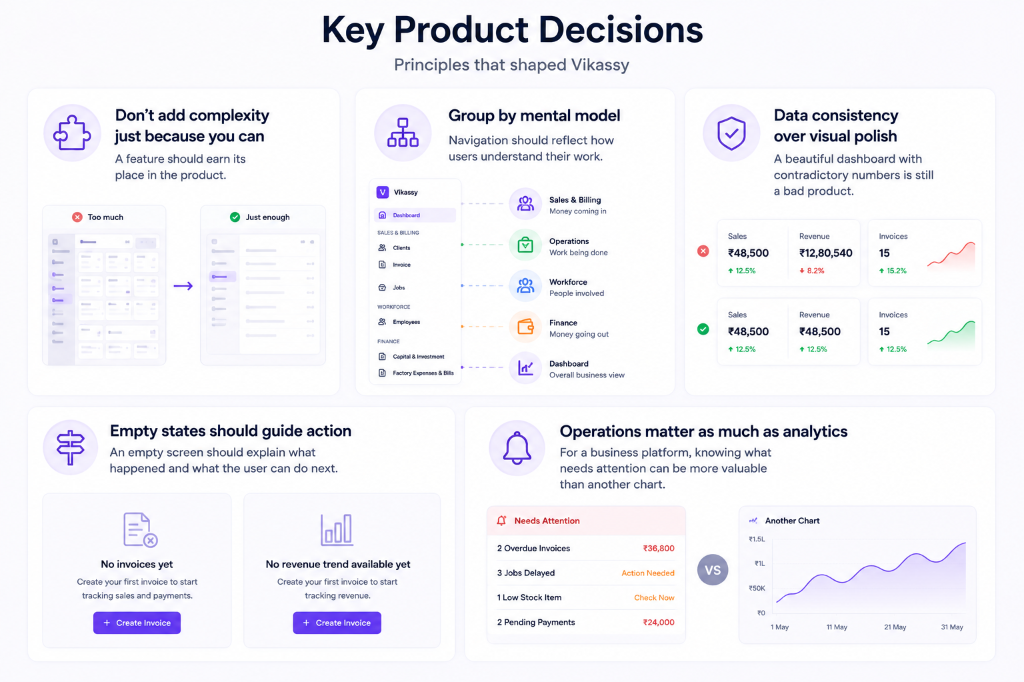
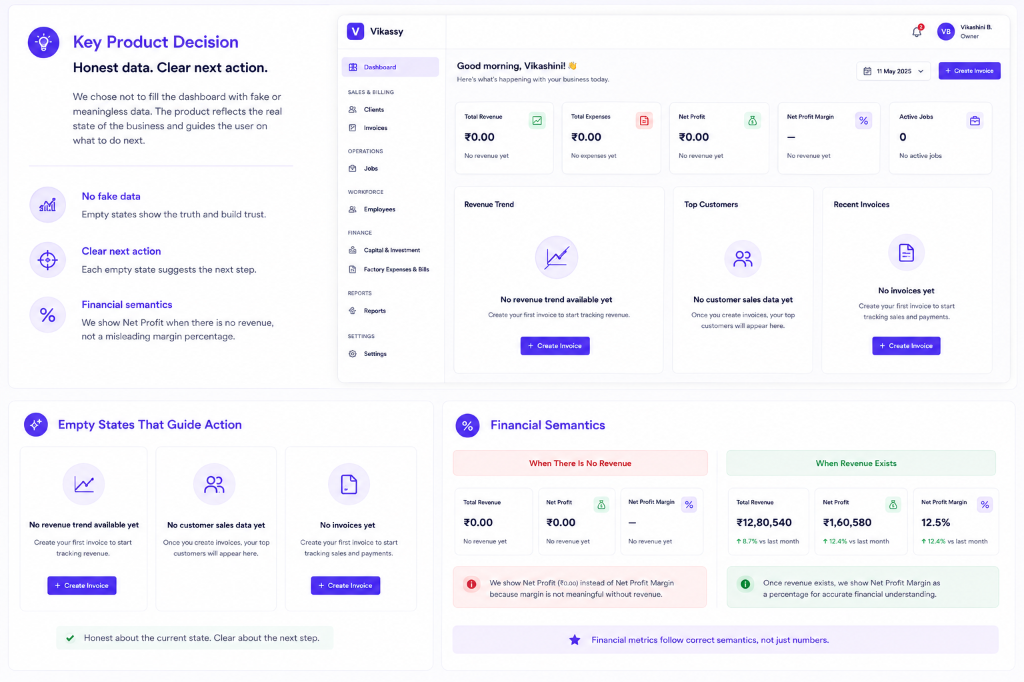
Update key decisions diagram and place it inline in Product Decisions section of Vikassy

diff --git a/src/data/projects.ts b/src/data/projects.ts
@@ -471,13 +471,8 @@ export const projects: ProjectData[] = [
         category: "Product Decisions",
         subtitle: "Designing for Real Data & Financial Semantics",
         content:
-          "One of the key product decisions was **not filling the dashboard with fake or meaningless data**.\n\nWhen there are no invoices:\n> **No revenue trend available yet**\n> Create your first invoice to start tracking revenue.\n\nWhen there are no customer sales:\n> **No customer sales data yet**\n\nWhen there are no invoices:\n> **No invoices yet**\n> Create your first invoice to start tracking sales and payments.\n\nThis makes the product honest about its current state while giving the user a clear next action.\n\n### Financial semantics\nA dashboard metric such as **Net Profit Margin** should represent a percentage, not a currency amount.\n\nSo when there is no revenue, the product shows the actual **Net Profit** rather than presenting a misleading margin percentage.\n\n> **Data consistency is a UX requirement, not just a technical requirement.**",
-        images: [
-          {
-            src: vikassyDecisionsImage,
-            alt: "Key Product Decisions - Don't add complexity just because you can vs Group by mental model vs Data consistency over visual polish vs Empty states should guide action",
-          },
-        ],
+          `One of the key product decisions was **not filling the dashboard with fake or meaningless data**.\n\nWhen there are no invoices:\n> **No revenue trend available yet**\n> Create your first invoice to start tracking revenue.\n\nWhen there are no customer sales:\n> **No customer sales data yet**\n\nWhen there are no invoices:\n> **No invoices yet**\n> Create your first invoice to start tracking sales and payments.\n\nThis makes the product honest about its current state while giving the user a clear next action.\n\n![Key Product Decisions](${vikassyDecisionsImage})\n\n### Financial semantics\nA dashboard metric such as **Net Profit Margin** should represent a percentage, not a currency amount.\n\nSo when there is no revenue, the product shows the actual **Net Profit** rather than presenting a misleading margin percentage.\n\n> **Data consistency is a UX requirement, not just a technical requirement.**`,
+        images: [],
         layout: "single" as const,
       },
       {
